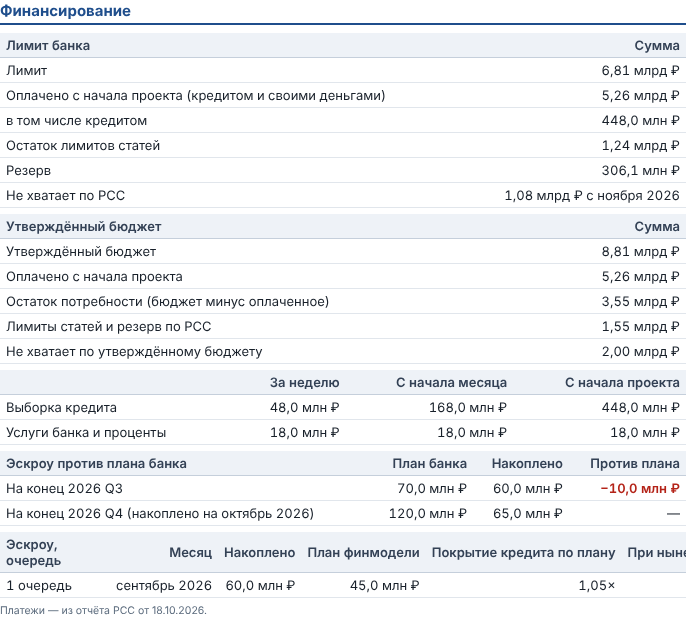
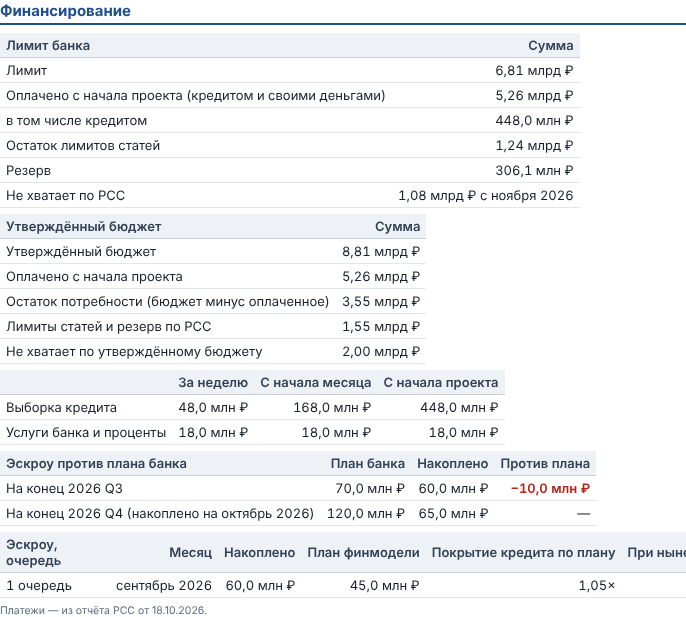
Широкая таблица сводки прокручивается внутри рамки и на планшете
При 760px таблица эскроу с шестью колонками обрезалась справа: правило
прокрутки внутри рамки действовало только до 700px. Теперь — до 900px;
проверка на отрисованной странице.

Claude-Session: https://claude.ai/code/session_01TjEGwKj6j3yUqvyt53Uw7T

diff --git a/tests/test_report_fits_a_phone.py b/tests/test_report_fits_a_phone.py
@@ -92,12 +92,17 @@ def test_the_first_column_is_not_crushed_on_a_tablet():
             tab.set_content(REPORT_PAGE)
             tab.evaluate("html => { document.getElementById('reportBox').innerHTML = html; "
                          "document.getElementById('privateArea').classList.remove('hidden') }", body)
-            width, lines = tab.evaluate("""() => {
+            width, lines, outside = tab.evaluate("""() => {
                 const th = [...document.querySelectorAll('#reportBox th')]
                     .find(c => c.textContent.trim() === 'Эскроу, очередь');
                 const r = th.getBoundingClientRect();
-                return [r.width, Math.round(r.height / (parseFloat(getComputedStyle(th).fontSize) * 1.4))] }""")
+                const edge = document.getElementById('reportBox').getBoundingClientRect().right;
+                const out = [...document.querySelectorAll('#reportBox table')]
+                    .filter(t => t.getBoundingClientRect().right > edge + 0.5).length;
+                return [r.width, Math.round(r.height / (parseFloat(getComputedStyle(th).fontSize) * 1.4)), out] }""")
         finally:
             browser.close()
     assert width >= 100, f"первая колонка сжата до {width}px"
     assert lines <= 2, f"заголовок первой колонки разбит на {lines} строк"
+    # Шесть колонок не влезают в 760px — таблица прокручивается внутри рамки, а не вылезает.
+    assert outside == 0, "таблица вылезает за карточку отчёта"

diff --git a/developaid_report_page.py b/developaid_report_page.py
@@ -57,9 +57,11 @@ REPORT_PAGE = """<!doctype html>
 #reportBox h2.block{break-before:auto;page-break-before:auto}#reportBox h2.block{scroll-margin-top:12px}
 @media (max-width:700px){#reportBox .tiles{grid-template-columns:repeat(2,1fr)}
 #reportBox{padding:12px 10px}
-#reportBox table{display:block;max-width:100%;overflow-x:auto;-webkit-overflow-scrolling:touch}
+#reportBox td:first-child,#reportBox th:first-child{min-width:150px}}
+/* Широкая таблица прокручивается внутри своей рамки и на планшете: при 760px
+   шесть колонок эскроу обрезались справа, а первая сжималась до буквы в строку. */
+@media (max-width:900px){#reportBox table{display:block;max-width:100%;overflow-x:auto;-webkit-overflow-scrolling:touch}
 #reportBox td,#reportBox th{overflow-wrap:normal;word-break:normal}
-#reportBox td:first-child,#reportBox th:first-child{min-width:150px}
 #reportBox svg,#reportBox img{max-width:100%;height:auto}}
 #reportBox{overflow-wrap:anywhere;min-width:0}
 .files .field{min-width:0;max-width:100%}.files select,.files input{max-width:100%}
